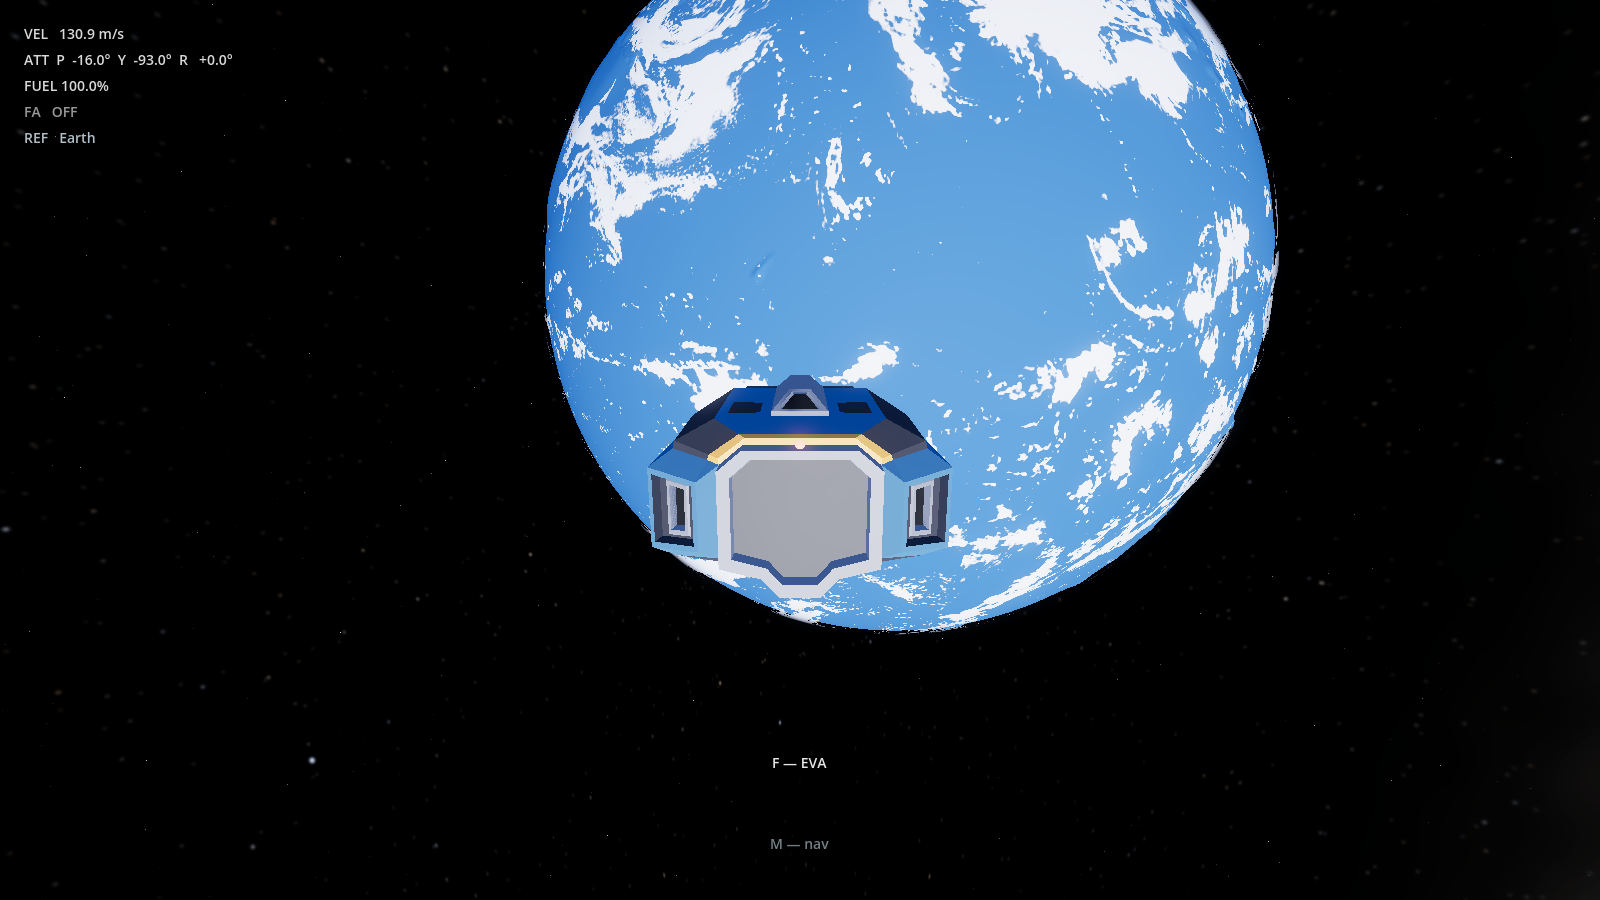
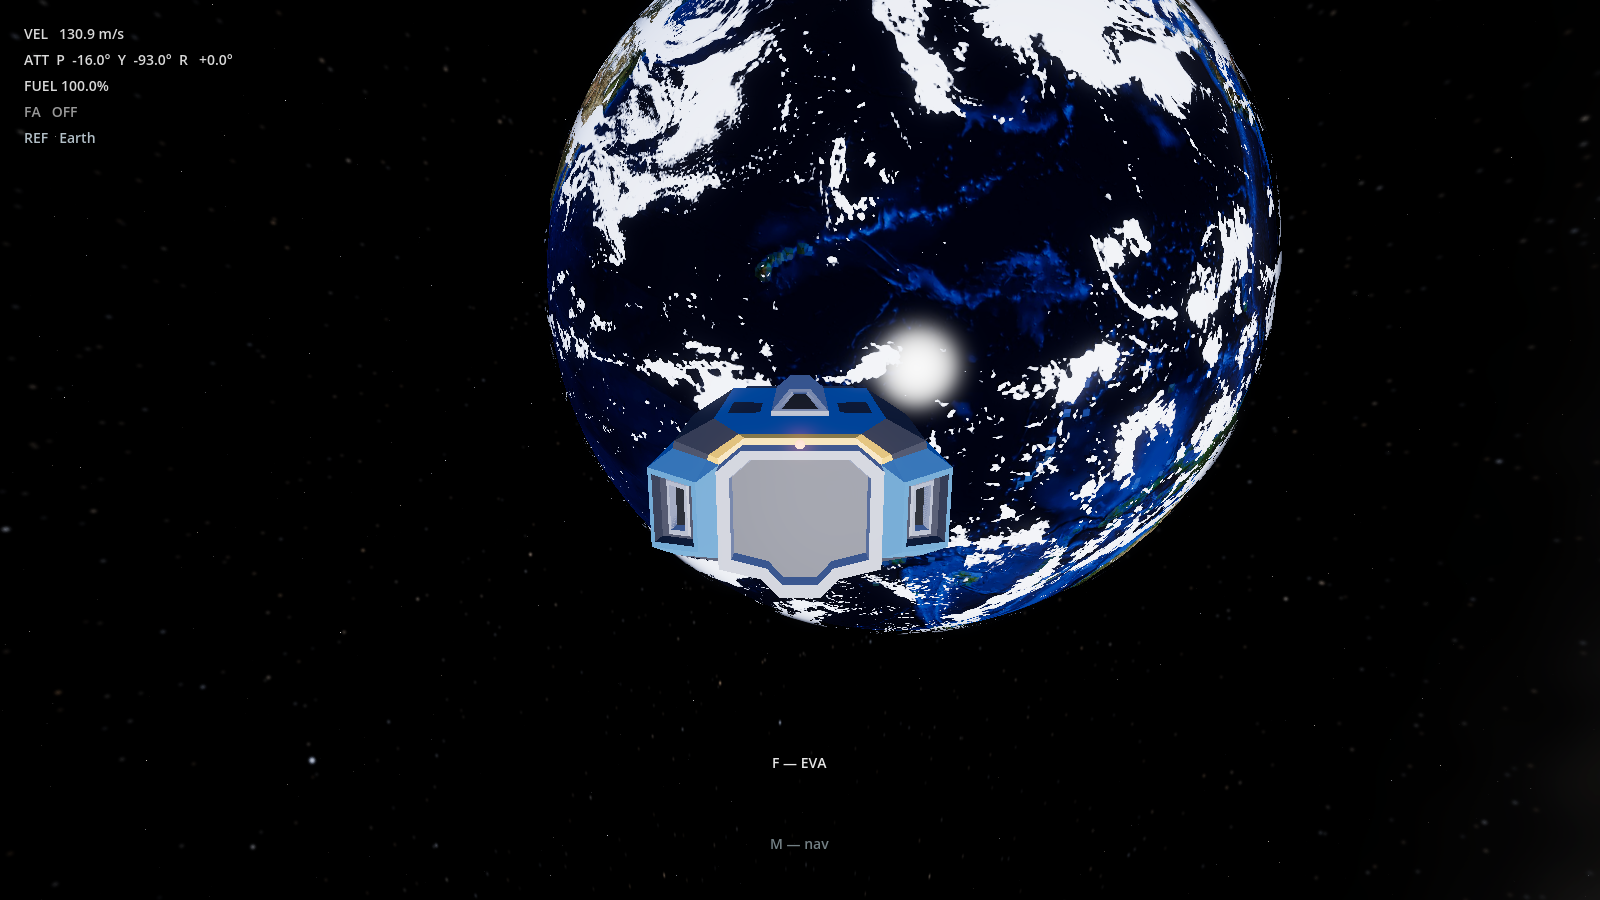
fix(cascade): LOD transitions earlier than the hull — and the landed shots that proved four more bugs
The owner's point stands as the rule: a LOD transition after the hull has
passed where the surface was is way too late. The skim ship's footprint
now pins the quadtree to max depth (the detail-site mechanism reused) —
terrain converges at skim range, splits finish on approach, merges wait
until the hull leaves, and the collider swap guard demotes to a backstop.
Gated: ground height under the final approach moves 0.021 m below 60 m.

Getting a convincing landed screenshot then flushed out real bugs the
suites now guard: ship_controller freed the stowed suit on every capture
because docking/landing REPARENT the hull and a reparent passes through
_exit_tree (cleanup moved to PREDELETE); request_exit parented the suit
under the ship's CURRENT parent — the rail-driven port or planet surface
— where a live body drifts kilometres in frames (it now enters the world
container captured at bootstrap); and a hatch on a grounded hull can clip
the relief, so the landed exit lifts 2 m along local up (the solver was
ejecting the suit at 255 m/s).

The screenshot harness earned its keep and its scars: deterministic
surface-local site scanning (flat, inland, clear of authored site insets
that scan as flat dry land), an analytic solve that jumps sim_time to put
the sun at 62 degrees over the landed site, and the origin re-centred
from analytic true space after the jump — to_true() of a proxied child is
garbage, the _frame_site trap's third appearance. The result: the suit
[…]

Changed region(s): [[0.3125, 0.0, 0.8125, 0.7156]]

diff --git a/docs/tasks.md b/docs/tasks.md
@@ -478,11 +478,40 @@ handoff. Suit hovers on the Moon, not on Earth — on purpose. Gas giants: no.
    left resting on per-frame-teleporting colliders is eventually thrown by
    the solver.
 
-Suites: `anchor_test` (16 checks) and `landing_test` (23 checks) — both green,
-all six prior suites green. Two harness traps for the standing list:
-GDScript lambdas capture locals BY VALUE (signal-fired flags need an array
-cell), and a held teleport goes stale when an origin shift fires mid-hold —
-pose targets must be Callables re-evaluated per frame, never fixed vectors.
+**Owner follow-up (2026-08-24): "if we LOD transitioned after we passed where
+the surface was, that's way too late."** Correct — and fixed at the root:
+4. **Transition-earlier pin.** The skim ship's footprint now pins the quadtree
+   to max depth (the detail-site pinning mechanism, reused): terrain under a
+   hull converges to final geometry when skim engages at 500 m, splits finish
+   on approach, and merges wait until the hull leaves. The collider swap
+   guard remains as a backstop only. Gated: ground height under the final
+   approach moves < 0.021 m below 60 m altitude (`landing_test`).
+The convincing-screenshot hunt then flushed out three more real bugs:
+5. **Reparent killed EVA.** `ship_controller._exit_tree` freed the stowed
+   suit — and docking/landing captures REPARENT the hull, which passes
+   through `_exit_tree`. EVA died after any capture. Cleanup moved to
+   NOTIFICATION_PREDELETE; gated in `landing_test`.
+6. **EVA exit under a rail parent.** `request_exit` parented the suit under
+   `_ship.get_parent()` — the PORT while docked, the PLANET SURFACE while
+   landed; a live body there enters the write-back fight (measured 193 km of
+   drift in three frames). The suit now enters the world container captured
+   at bootstrap; gated in `landing_test`.
+7. **Hatch clips the relief when landed.** Exit position lifts 2 m along
+   local up on the ground, else the solver ejects the suit at ~255 m/s.
+
+Suites: `anchor_test` (16 checks) and `landing_test` (26 checks) — both green,
+all six prior suites green. Harness traps for the standing list:
+- GDScript lambdas capture locals BY VALUE (signal-fired flags need an array cell).
+- A held teleport goes stale when an origin shift fires mid-hold — pose
+  targets must be Callables re-evaluated per frame, never fixed vectors.
+- A stowed body re-enters the physics space holding its stale pre-stow SERVER
+  transform and node writes converge over many steps — hard-sync with
+  `PhysicsServer3D.body_set_state(BODY_STATE_TRANSFORM)` before trusting a pose.
+- After ANY `SimClock.sim_time` jump, re-centre the origin from analytic TRUE
+  space (body position + spin-rotated local offset), NEVER from
+  `to_true(node.global_position)`: the jump proxies the body, drags its
+  children to the 40 km proxy shell, and to_true() of that locks the garbage
+  in (the `_frame_site` trap, third appearance).
 
 ## Track SL — The Sun and the Stars (SL1–SL7 BUILT 2026-08-23; SL8 open, owner call)
 
